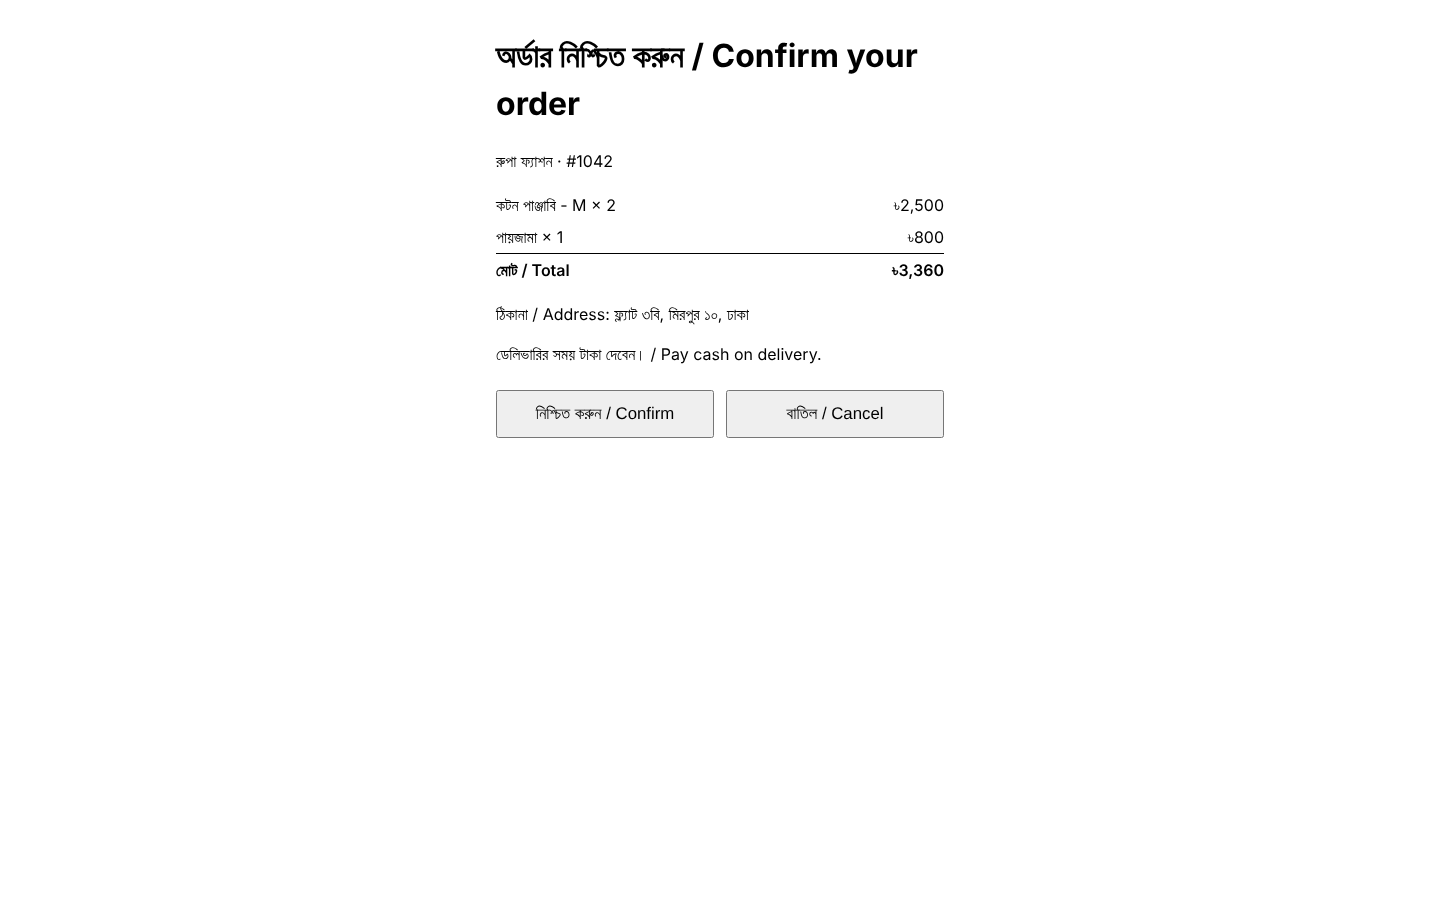
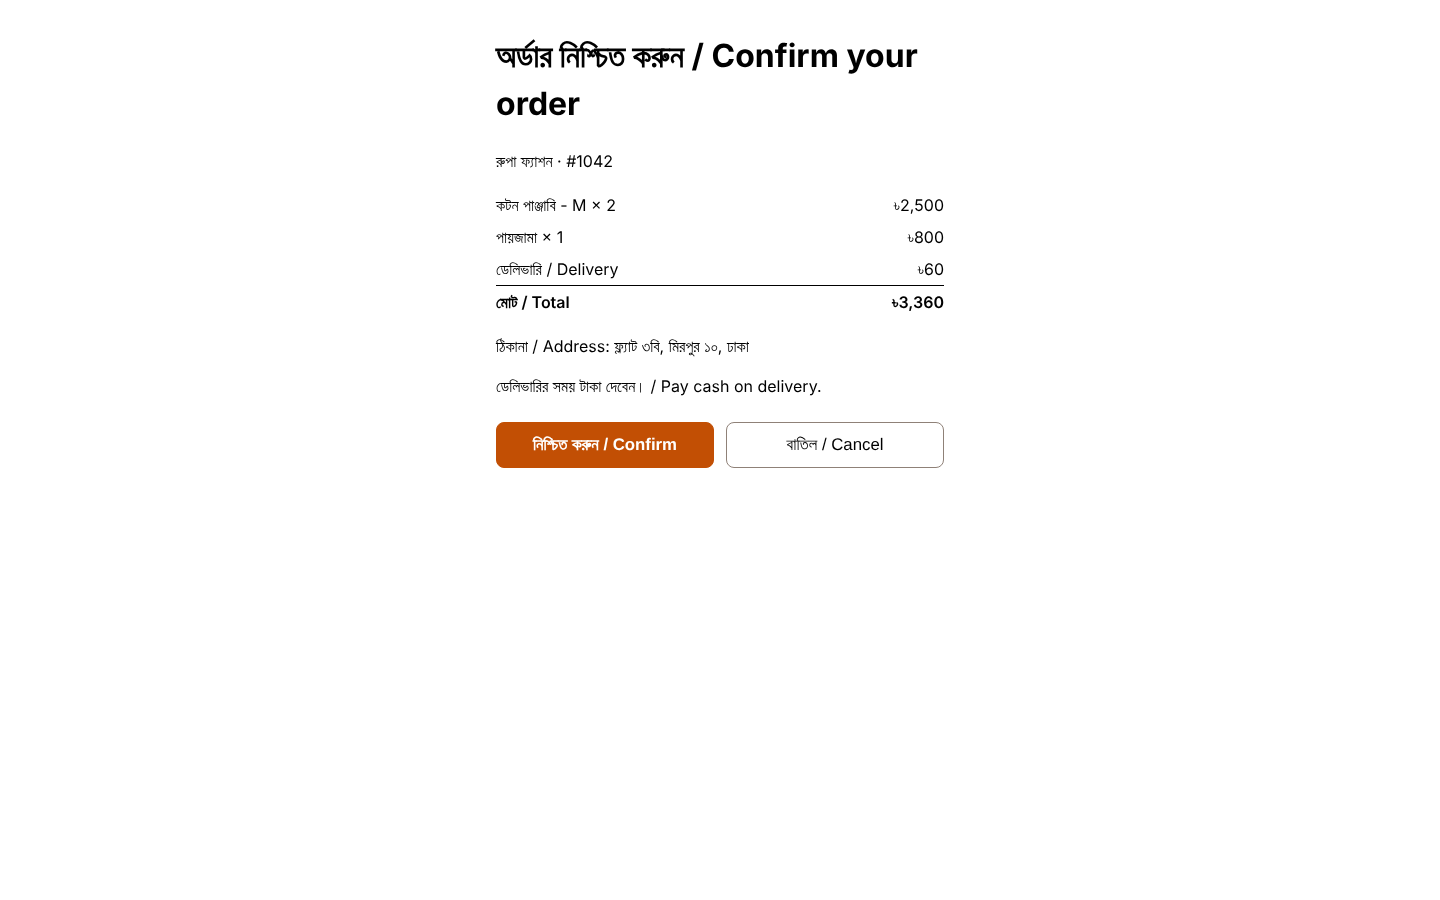
fix(ord-4): show delivery and discount on the confirm page
The rows now add up to the total. Confirm is the filled primary button and
comes first, with the colours set once in the page style. The confirmation
method is passed explicitly to stageWrite instead of defaulting to staff.

Claude-Session: https://claude.ai/code/session_017XSqbrWDi19fmTJKgxHTiA

Changed region(s): [[0.3438, 0.28, 0.625, 0.5289], [0.625, 0.28, 0.6562, 0.3422]]

diff --git a/packages/core/src/orders/order-confirmation.page.ts b/packages/core/src/orders/order-confirmation.page.ts
@@ -2,10 +2,14 @@ import { formatMoney } from '@dakly/contracts/money';
 
 import type { ConfirmationOutcome, ConfirmationView } from './order-confirmation.service';
 
-const STYLE = `body{font-family:system-ui,sans-serif;max-width:28rem;margin:2rem auto;padding:0 1rem;line-height:1.5}
+// This page is served without the web app's stylesheet, so the values below repeat the theme
+// tokens in docs/design/theme.md once: action, on-primary and input-border.
+const STYLE = `:root{--action:#C24F04;--on-primary:#FFFFFF;--input-border:#8F8178}
+body{font-family:system-ui,sans-serif;max-width:28rem;margin:2rem auto;padding:0 1rem;line-height:1.5}
 table{width:100%;border-collapse:collapse}td{padding:.25rem 0;vertical-align:top}td:last-child{text-align:right;white-space:nowrap}
 .total td{border-top:1px solid;font-weight:600}.actions{display:flex;gap:.75rem;margin-top:1.5rem}
-button{flex:1;font-size:1.05rem;padding:.75rem 1rem}`;
+button{flex:1;font-size:1.05rem;padding:.75rem 1rem;border:1px solid var(--input-border);border-radius:.5rem;background:transparent;color:inherit}
+button.primary{background:var(--action);border-color:var(--action);color:var(--on-primary);font-weight:600}`;
 
 const texts = {
   confirmed: ['অর্ডার নিশ্চিত হয়েছে', 'Order confirmed', 'দোকান শীঘ্রই পাঠানোর ব্যবস্থা করবে।'],
@@ -24,13 +28,20 @@ export function confirmationPage(view: ConfirmationView): string {
   return layout(
     'অর্ডার নিশ্চিত করুন / Confirm your order',
     `<p>${escapeHtml(view.storeName)} · #${view.orderNumber}</p>
-<table>${rows}<tr class="total"><td>মোট / Total</td><td>${formatMoney(view.totalPoisha)}</td></tr></table>
+<table>${rows}${chargeRows(view)}<tr class="total"><td>মোট / Total</td><td>${formatMoney(view.totalPoisha)}</td></tr></table>
 <p>ঠিকানা / Address: ${escapeHtml(view.address)}</p>
 <p>ডেলিভারির সময় টাকা দেবেন। / Pay cash on delivery.</p>
 <form method="post" action="">
-<div class="actions"><button type="submit" formaction="?answer=confirm">নিশ্চিত করুন / Confirm</button>
+<div class="actions"><button class="primary" type="submit" formaction="?answer=confirm">নিশ্চিত করুন / Confirm</button>
 <button type="submit" formaction="?answer=cancel">বাতিল / Cancel</button></div></form>`,
   );
+}
+
+function chargeRows(view: Extract<ConfirmationView, { state: 'open' }>): string {
+  const discount = view.orderDiscountPoisha
+    ? `<tr><td>ছাড় / Discount</td><td>-${formatMoney(view.orderDiscountPoisha)}</td></tr>`
+    : '';
+  return `${discount}<tr><td>ডেলিভারি / Delivery</td><td>${formatMoney(view.deliveryChargePoisha)}</td></tr>`;
 }
 
 export function outcomePage(outcome: ConfirmationOutcome): string {

diff --git a/packages/core/src/orders/orders.service.ts b/packages/core/src/orders/orders.service.ts
@@ -32,13 +32,13 @@ import {
   orderStageCounts,
   orderStageHistory,
   productArchiveStages,
+  createdStageWrite,
   recordOrderCreation,
   recordOrderEdit,
   recordOrderStage,
   requireEditableOrder,
   requireStageChange,
   type StageEditor,
-  staffConfirmation,
   stageWrite,
   stagesForOrderTab,
 } from './order-stage';
@@ -130,7 +130,7 @@ export class OrdersService {
         idempotencyKey,
         ...delivery,
         ...totals,
-        ...stageWrite(input.confirm ? staffConfirmation : { to: 'to_confirm' }, now, input.confirm),
+        ...createdStageWrite(input.confirm, now),
         paymentStatus: input.advancePaidPoisha > 0 ? 'advance_paid' : 'cod_pending',
         possibleDuplicateOfOrderId: duplicate,
         createdAt: now,
@@ -257,7 +257,7 @@ export class OrdersService {
     storeId: string,
     orderId: string,
     change: OrderStageChange,
-    { actor, access, onlyFrom, confirmationMethod }: StageEditor,
+    { actor, access, onlyFrom, confirmationMethod = 'staff' }: StageEditor,
   ): Promise<OrderDetail> {
     return this.transaction.run(storeId, async () => {
       const order = await this.repository.lock(storeId, orderId);
@@ -281,7 +281,7 @@ export class OrdersService {
       );
       await this.repository.updateOrder(storeId, orderId, {
         ...fulfilment,
-        ...stageWrite(change, now, confirmed, confirmationMethod),
+        ...stageWrite(change, now, confirmed && confirmationMethod),
         ...(change.to === 'cancelled' && order.paymentStatus === 'advance_paid'
           ? { paymentStatus: 'refund_due' }
           : {}),

diff --git a/packages/core/src/orders/order-stage.ts b/packages/core/src/orders/order-stage.ts
@@ -57,21 +57,25 @@ export function orderStageCounts(rows: { stage: OrderStage; count: number }[]) {
   };
 }
 
+// confirmedBy is the method when this change confirms the order, and false when it does not.
 export function stageWrite(
   change: OrderStageChange,
   now: Date,
-  confirmed: boolean,
-  confirmationMethod: OrderConfirmationMethod = 'staff',
+  confirmedBy: OrderConfirmationMethod | false,
 ): StageWrite {
   return {
     stage: change.to,
     onHoldReason: change.to === 'on_hold' ? change.reason : null,
     followUpOn: change.to === 'on_hold' ? (change.followUpOn ?? null) : null,
     cancelReason: change.to === 'cancelled' ? change.reason : null,
-    ...(confirmed && { confirmedAt: now, confirmationMethod }),
+    ...(confirmedBy && { confirmedAt: now, confirmationMethod: confirmedBy }),
     ...(change.to === 'cancelled' && { cancelledAt: now }),
     updatedAt: now,
   };
+}
+
+export function createdStageWrite(confirm: boolean, now: Date): StageWrite {
+  return stageWrite(confirm ? staffConfirmation : { to: 'to_confirm' }, now, confirm && 'staff');
 }
 
 export function requireStageChange(

diff --git a/packages/core/src/orders/order-confirmation.service.ts b/packages/core/src/orders/order-confirmation.service.ts
@@ -31,6 +31,8 @@ export type ConfirmationView =
       storeName: string;
       orderNumber: number;
       items: { name: string; quantity: number; totalPoisha: number }[];
+      orderDiscountPoisha: number;
+      deliveryChargePoisha: number;
       totalPoisha: number;
       address: string;
     };
@@ -72,6 +74,8 @@ export class OrderConfirmationService {
         quantity: item.quantity,
         totalPoisha: item.unitPricePoisha * item.quantity - item.lineDiscountPoisha,
       })),
+      orderDiscountPoisha: order.orderDiscountPoisha,
+      deliveryChargePoisha: order.deliveryChargePoisha,
       totalPoisha: order.totalPoisha,
       address: `${order.recipientAddress}, ${order.recipientDistrict}`,
     };

diff --git a/packages/core/src/orders/order-confirmation.int.spec.ts b/packages/core/src/orders/order-confirmation.int.spec.ts
@@ -106,6 +106,8 @@ describe('order confirmation links (Postgres)', () => {
     expect(view).toMatchObject({
       state: 'open',
       orderNumber: created.number,
+      orderDiscountPoisha: created.orderDiscountPoisha,
+      deliveryChargePoisha: created.deliveryChargePoisha,
       totalPoisha: created.totalPoisha,
       items: [{ name: 'Panjabi - M', quantity: 2, totalPoisha: 250000 }],
     });
